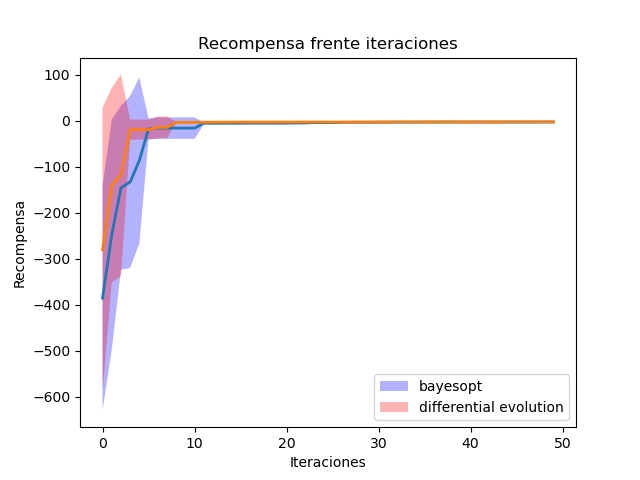
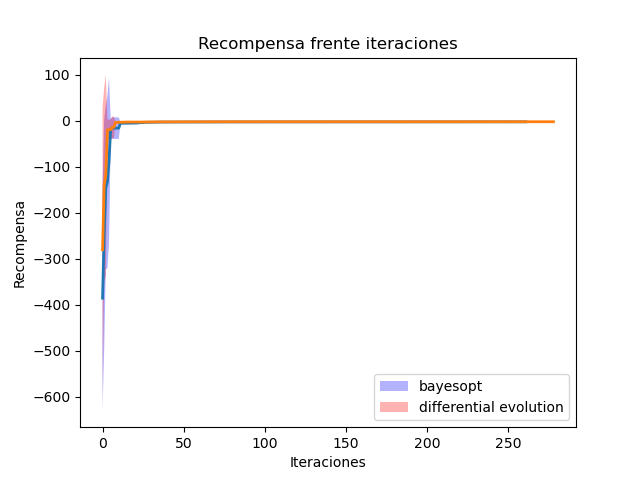
Grafica optimizacion de evitación de un obstaculo en coordenadas cartesianas.

diff --git a/print_graph.py b/print_graph.py
@@ -42,10 +42,10 @@ for resultado in lista_de_resultados:
     n, it = range(res.shape[0]), range(res.shape[1])
     t_limits = sp.t.interval(0.95, n_experimentos) / np.sqrt(n_experimentos)
 
-    res = res[0:20]
-    res_mean = res_mean[0:20]
-    res_std = res_std[0:20]
-    it = it[0:20]
+    res = res[5:350]
+    res_mean = res_mean[5:350]
+    res_std = res_std[5:350]
+    it = it[5:350]
 
     plt.plot(it, res_mean, linewidth=2, label=None)
     plt.fill(np.concatenate([it, it[::-1]]),
@@ -58,5 +58,5 @@ plt.ylabel(ylabel='Recompensa')
 plt.xlabel(xlabel='Iteraciones')
 plt.title(label='Recompensa frente iteraciones')
 plt.legend(loc='lower right')
-plt.savefig(TASK_DIR + "it_reward_" + TASK_NAME + "_" + VARIATION + ".png")
+plt.savefig(TASK_DIR + "it_reward_" + TASK_NAME + "_" + VARIATION + "_zoom.png")
 plt.show()

diff --git a/optimizacion_bayesopt.py b/optimizacion_bayesopt.py
@@ -4,14 +4,14 @@ import pickle
 import params_opt
 
 TASK_DIR = "avoid_obstacle/"
-VARIATION = 'cartesianas'
+VARIATION = 'esfericas'
 TASK_NAME = "avoid_obstacle"
 
-n, lb, ub = params_opt.bayesopt_bounds(task=TASK_NAME)
+n, lb, ub = params_opt.bayesopt_bounds(task=TASK_NAME, coords=VARIATION)
 
-params = {'n_iterations': 100,
-          'n_iter_relearn': 5,
-          'n_init_samples': 3*n}
+params = {'n_iterations': 200,
+          'n_iter_relearn': 10,
+          'n_init_samples': 5*n}
 
 listas = []
 param_solution = []
@@ -20,7 +20,7 @@ n_experimentos = 5
 function = fun.AvoidObstacle(headless_mode=True)  # Inicializacion
 
 # Coordenadas de la tarea avoid_obstacle
-# function.set_coords(coords=VARIATION)
+function.set_coords(coords=VARIATION)
 
 for i in range(n_experimentos):
     print(i)

diff --git a/optimizacion_difevol.py b/optimizacion_difevol.py
@@ -4,13 +4,13 @@ import pickle
 import params_opt
 
 TASK_DIR = "avoid_obstacle/"
-VARIATION = 'cartesianas'
+VARIATION = 'esfericas'
 TASK_NAME = "avoid_obstacle"
 
-bounds = params_opt.difevol_bounds(task=TASK_NAME)
+bounds = params_opt.difevol_bounds(task=TASK_NAME, coords=VARIATION)
 
-popsize = 3
-maxiter = 100//(len(bounds)*popsize)
+popsize = 5
+maxiter = 200//(len(bounds)*popsize)
 
 listas = []
 params_solution = []
@@ -19,7 +19,7 @@ n_experimentos = 5
 function = fun.AvoidObstacle(headless_mode=True)  # Inicializacion
 
 # Coordenadas de la tarea avoid_obstacle
-# function.set_coords(coords=VARIATION)
+function.set_coords(coords=VARIATION)
 
 for i in range(n_experimentos):
     print(i)
